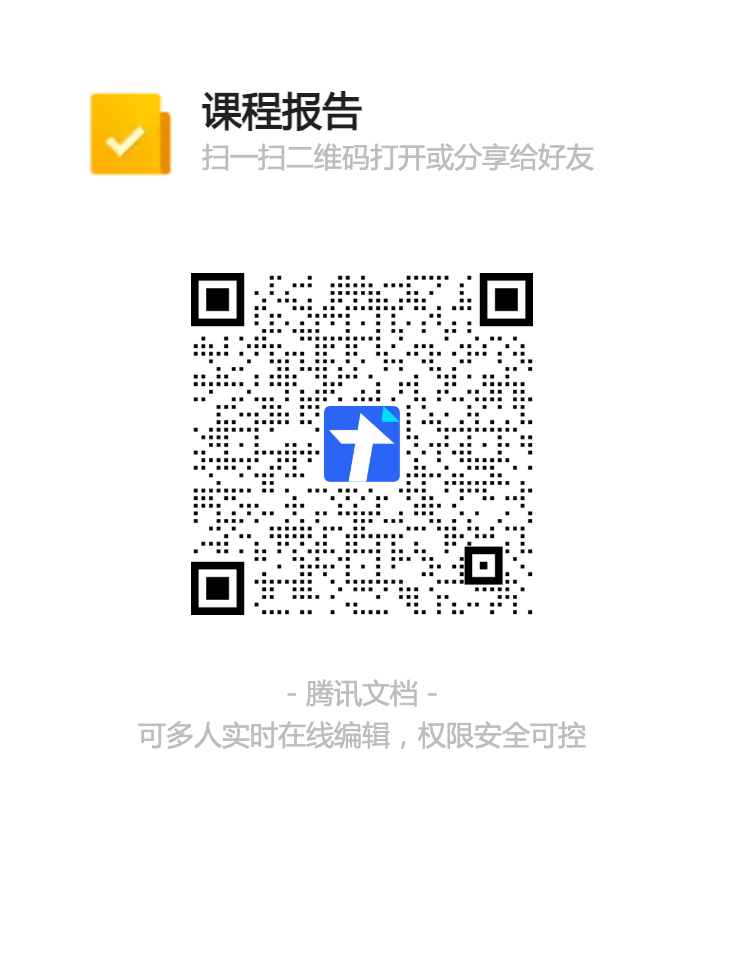
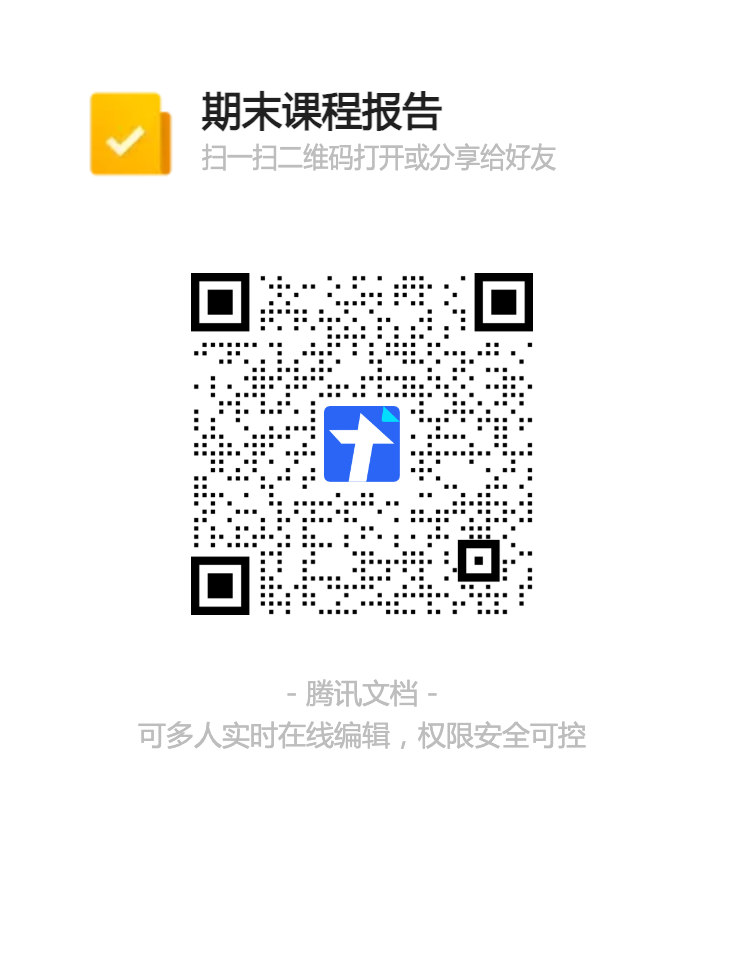
FinalReport

Changed region(s): [[0.2404, 0.2812, 0.7514, 0.6562], [0.2705, 0.0938, 0.8115, 0.1875]]

diff --git a/blog/2023-12-12FinalReport.md b/blog/2023-12-12FinalReport.md
@@ -1,0 +1,29 @@
+---
+slug: FinalReport
+title: 期末课程报告
+author: Wenxuan Shi
+author_title: A.P. @ Nankai University
+author_url: https://github.com/walkman617/walkman617
+author_image_url: https://avatars.githubusercontent.com/u/9105499?v=4
+tags: [assignments]
+---
+
+## 预备知识
+- 自主学习案例：[Improving  Student Retention with Data-Driven Analytics](https://docs.qq.com/pdf/DYmJUakNvQXlHSnFL?)
+- 文本情感分析：又称意见挖掘、倾向性分析等，是对带有情感色彩的主观性文本进行分析、处理、归纳和推理的过程。
+- 产品和服务评论分析：分析消费者对产品和服务的评论，了解顾客满意度、需求和痛点，是文本情感分析的重要应用场景之一。
+
+## 期末课程报告（Final Report）
+下载并查看某品牌手机的[用户评论数据（包含高端/中端/低端三个Tab页）](https://docs.qq.com/sheet/DYkJmWmptUldlV0h0)，应用数据科学的思想、方法与工具，参考 [Improving  Student Retention with Data-Driven Analytics](https://docs.qq.com/pdf/DYmJUakNvQXlHSnFL?) 的写法，撰写课程报告（题目：Improving Product Design with Data-Driven Analytics），内容包含如下几个小节：
+- 背景介绍 (Background)
+- 解决方案 (The Proposed  Solution)
+- 数据分析 (Data Analysis)
+- 建模和评估 (Modeling  and Assessment)
+- 结果和结论 (The Results or Conclusions)
+- 决策建议 (Decision-making Suggestions)
+- 程序源码下载地址（Source Code Download Link）
+
+## 提交期末课程报告（doc或pdf格式）
+- 点击 [链接](https://docs.qq.com/form/page/DYnpZTEd5SWFqRFRY) 
+- 或 扫码
+![Final-Report](/img/tutorial/FinalReport.png) 

diff --git a/blog/2023-12-15Assesment.md b/blog/2023-12-15Assesment.md
@@ -14,6 +14,7 @@ tags: [assignments]
 - 延迟提交会有比较重的扣分。
 
 ## 作业提交截止日期
+- 2024年01月14日（23:59:59前）：[期末课程报告](/blog/FinalReport)
 - 2023年12月10日（23:59:59前）：[模仿游戏与Enigma](/blog/Problem5)
 - 2023年11月27日（12:00:00前）：[英文单词拼写差错与纠错](/blog/Problem4)
 - 2023年10月22日（23:59:59前）：[神经网络游乐场](/blog/Problem3)
